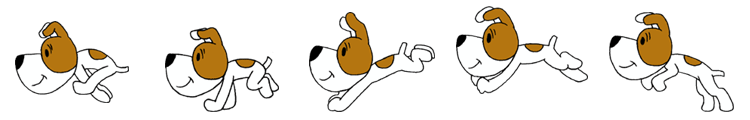
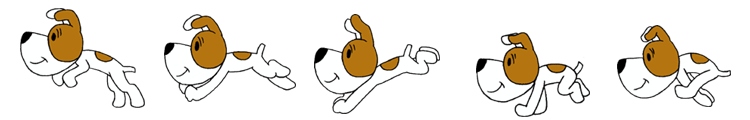
нечего не произошло

Changed region(s): [[0.0, 0.05, 0.9813, 0.975]]

diff --git a/examples/honor/Runner/js/indexloop.js b/examples/honor/Runner/js/indexloop.js
@@ -17,7 +17,7 @@ mouse.initMouseControl();
 //---------------------------------------------------
 
 //скорость игрока
-var speeddoc = 3;
+var speeddoc = 5;
 
 //background
 //----------------
@@ -61,7 +61,7 @@ var dog = game.newAnimationObject({
     x : 100, y : height -210,
     h : 120, w : 150,
   	animation:animrdog.runrdog,
-  	delay : 10,
+  	delay : 4,
 });
 //----------------
 
